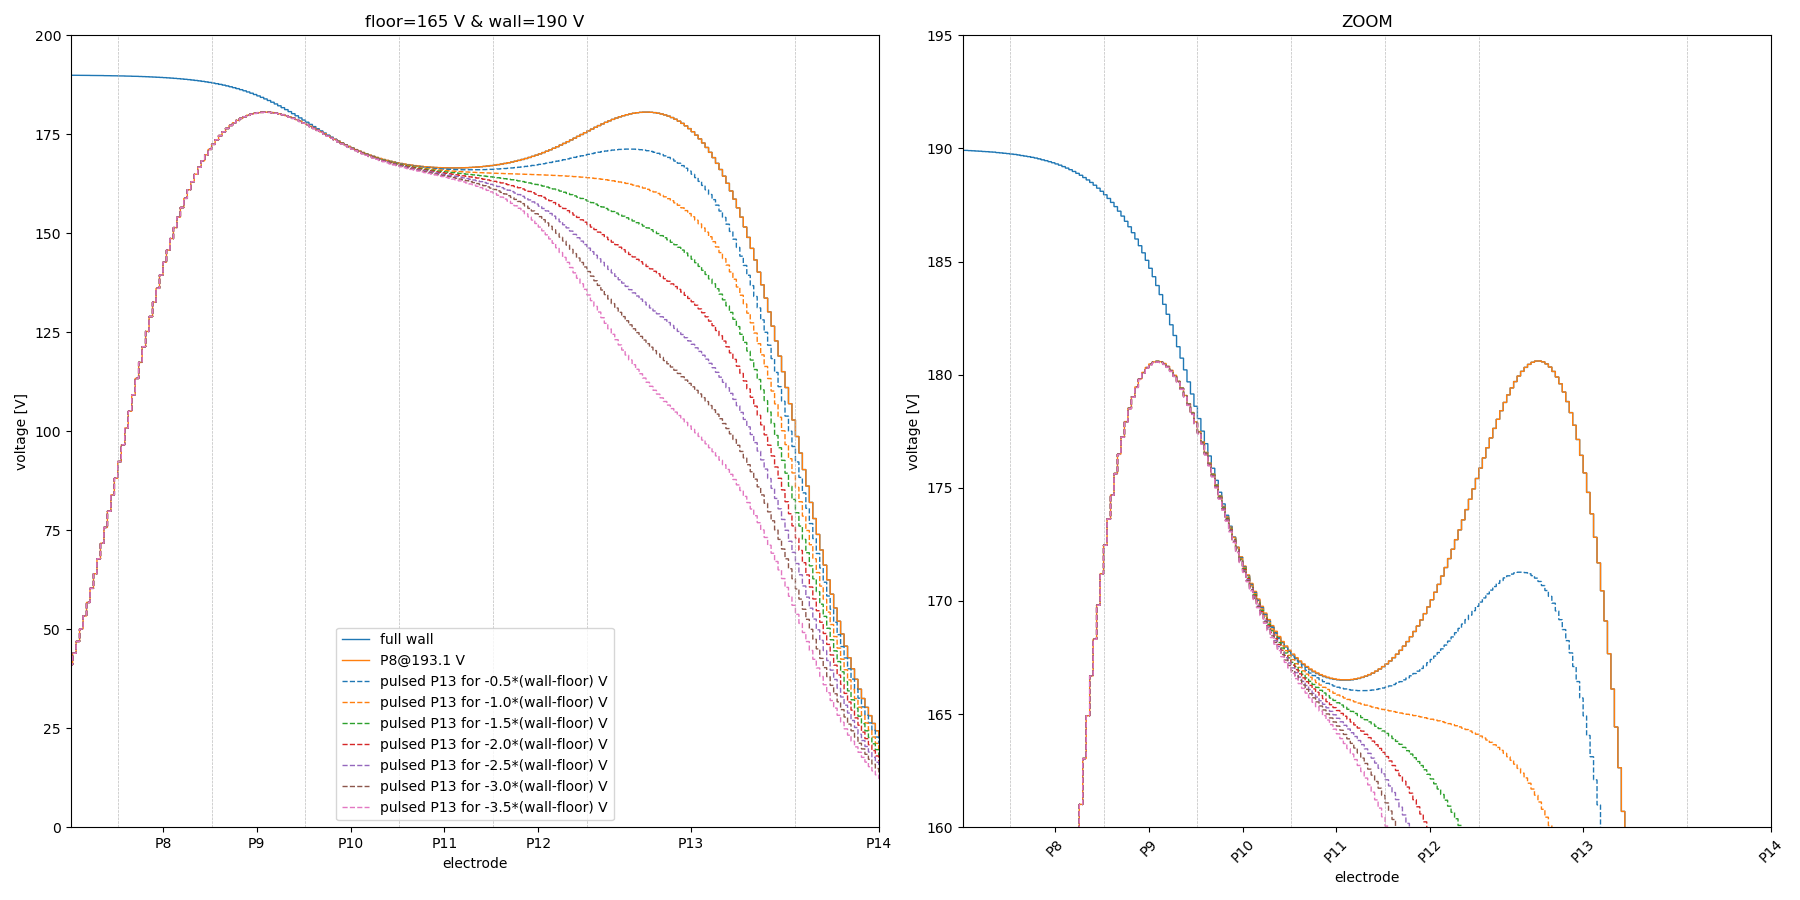
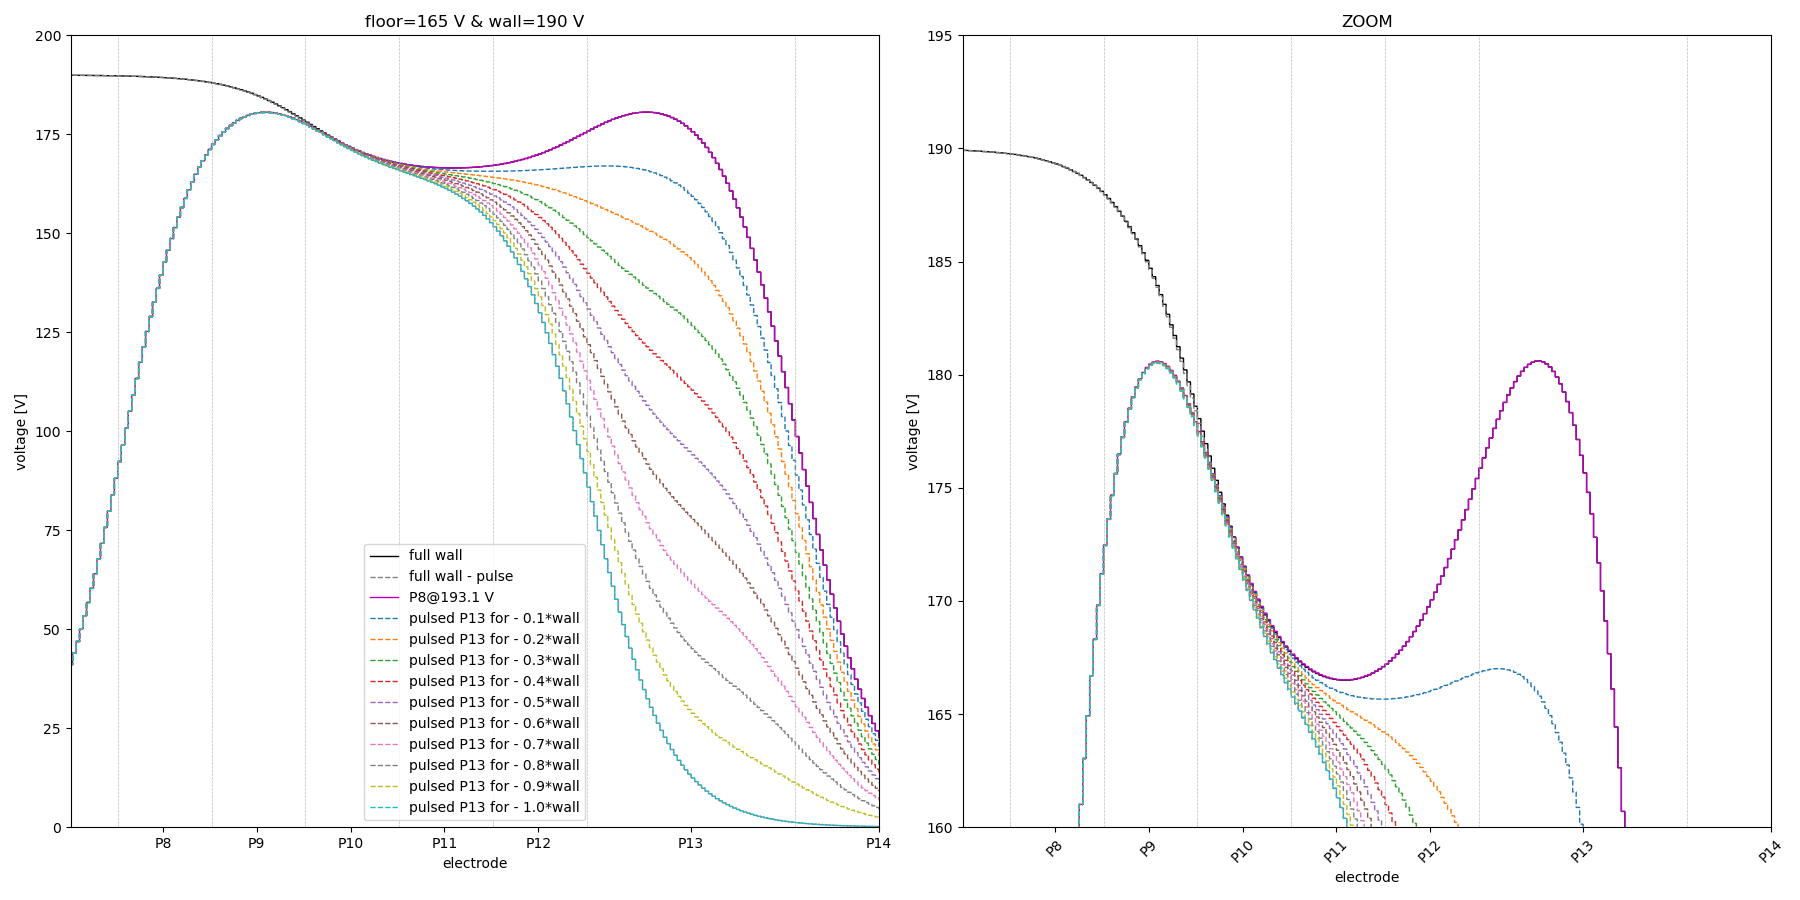
Add plots for pulsed release

diff --git a/potential-simulation/symmetrized_trap.py b/potential-simulation/symmetrized_trap.py
@@ -19,10 +19,12 @@ def find_best_symmetric_potential(trap_wall:float = 190, trap_floor:float = 170,
         if electrode == 'P10':
             break
         full_wall_V[electrode] = trap_wall
+        # continue
     for key,value in symmetric_wall_V.items():
         AEgIS_trap.SetElectrodeV(key,value)
         full_wall_V[key] = value
     potentials = [full_wall_V]
+    potentials.append({electrode:v if electrode!='P13' else 0 for electrode,v in full_wall_V.items()})
 
     voltage_diff = trap_wall
     best_voltage = 0
@@ -83,20 +85,24 @@ def find_best_symmetric_potential(trap_wall:float = 190, trap_floor:float = 170,
         electrode_p8_V = AEgIS_trap.GetElectrodeV("P8")
         if i == 0:
             for axi in ax:
-                axi.stairs(real_potential,label=f'full wall',color='tab:blue') #color='blue'
+                axi.stairs(real_potential,label=f'full wall',color='k') #color='tab:blue'
+        elif i == 1:
+            for axi in ax:
+                axi.stairs(real_potential,label=f'full wall - pulse',linestyle='--',color='grey') #color='tab:blue'
         else:
             if verbose > 0:
                 print("++++++++++++++++")
                 print(f"Ploting #{i} {electrode_p8_V} V")
             for axi in ax:
-                axi.stairs(real_potential,label=f'P8@{electrode_p8_V} V',color='tab:orange')
+                axi.stairs(real_potential,label=f'P8@{electrode_p8_V} V',color='m') # tab:orange
+                # continue
             # pulsing loop
             if not include_pulsing:
                 continue
-            for pulse in range(1,8):
-                AEgIS_trap.SetElectrodeV('P13',trap_wall - pulse*0.5*(trap_wall-trap_floor))
+            for pulse in range(1,11):
+                AEgIS_trap.SetElectrodeV('P13',trap_wall - 0.1*pulse*trap_wall) # pulse*0.5*(trap_wall-trap_floor))
                 for axi in ax:
-                    axi.stairs(AEgIS_trap.get_final_V(),linestyle='--',label=f'pulsed P13 for -{0.5*pulse}*(wall-floor) V')
+                    axi.stairs(AEgIS_trap.get_final_V(),linestyle='--',label=f'pulsed P13 for - {0.1*pulse:.1f}*wall')# {0.5*pulse}*(wall-floor) V')
 
     ax[0].legend()
     if save:
@@ -106,7 +112,7 @@ def find_best_symmetric_potential(trap_wall:float = 190, trap_floor:float = 170,
 
 if __name__ == "__main__":
     
-    results = [find_best_symmetric_potential(trap_floor=trap_floor,trap_wall=190,save=False,plot=True)  for trap_floor in range(165,190,5)]
+    results = [find_best_symmetric_potential(trap_floor=trap_floor,trap_wall=190,save=False,plot=True,include_pulsing=True)  for trap_floor in range(165,190,5)]
     for res in results:
         print(res)
     

diff --git a/potential-simulation/simple_plotter.py b/potential-simulation/simple_plotter.py
@@ -11,14 +11,15 @@ AEgIS_trap.Print()
 electrodes = AEgIS_trap.GetElectrodeNames()
 
 trap_wall = 190
-trap_floor = 180
-potential = {'P13':trap_wall,'P12':trap_floor,'P11':trap_floor,'P10':trap_floor,'P9':191.5,'P8':191.5}
-potentials = [potential]
+trap_floor = 190
+potential = {'P13':trap_wall,'P12':trap_floor,'P11':trap_floor,'P10':trap_floor,'P9':191.5,'P8':191.5,'HV3':-12000}
+potentials = [] # [potential]
 full_potential = {}
 for electrode in electrodes:
     if electrode == 'P10':
         break
-    full_potential[electrode] = trap_wall
+    # full_potential[electrode] = trap_wall
+    continue
 for key,value in potential.items():
     full_potential[key] = value
 potentials.append(full_potential)
@@ -37,7 +38,8 @@ ax.tick_params(which = "minor", bottom = False, left = False)
 ax.set_xlabel("electrode")
 ax.set_ylabel("voltage [V]") 
 ax.set_ylim(130,200)
-ax.set_xlim((AEgIS_trap.GetElectrodePosition('P7')-AEgIS_trap.position)/AEgIS_trap.dx,(AEgIS_trap.GetElectrodePosition('P14')-AEgIS_trap.position)/AEgIS_trap.dx)
+ax.set_xlim((AEgIS_trap.GetElectrodePosition('P7')-AEgIS_trap.position)/AEgIS_trap.dx,(AEgIS_trap.GetElectrodePosition('T1')-AEgIS_trap.position)/AEgIS_trap.dx)
+#P14
 plt.xticks(rotation=45)
 
 # plotting loop
@@ -48,7 +50,7 @@ for i,potential_map in enumerate(potentials):
         AEgIS_trap.SetElectrodeV(electrode,V)
     real_potential = AEgIS_trap.get_final_V()
     ax.stairs(real_potential,label=f'P13@{AEgIS_trap.GetElectrodeV("P13")} V')
-    p11_voltage_id = int((AEgIS_trap._GetElectrode('P11').GetElectrodeCenter()-AEgIS_trap.position)/AEgIS_trap.dx)
+    p11_voltage_id = int((AEgIS_trap._GetElectrode('T1').GetElectrodeCenter()-AEgIS_trap.position)/AEgIS_trap.dx)
     print("max voltage right of the P11:",np.max(real_potential[:p11_voltage_id]))
     print("voltate at the center of the P11:",real_potential[p11_voltage_id])
     print("maxvoltage left of the P12",np.max(real_potential[p11_voltage_id:]))
